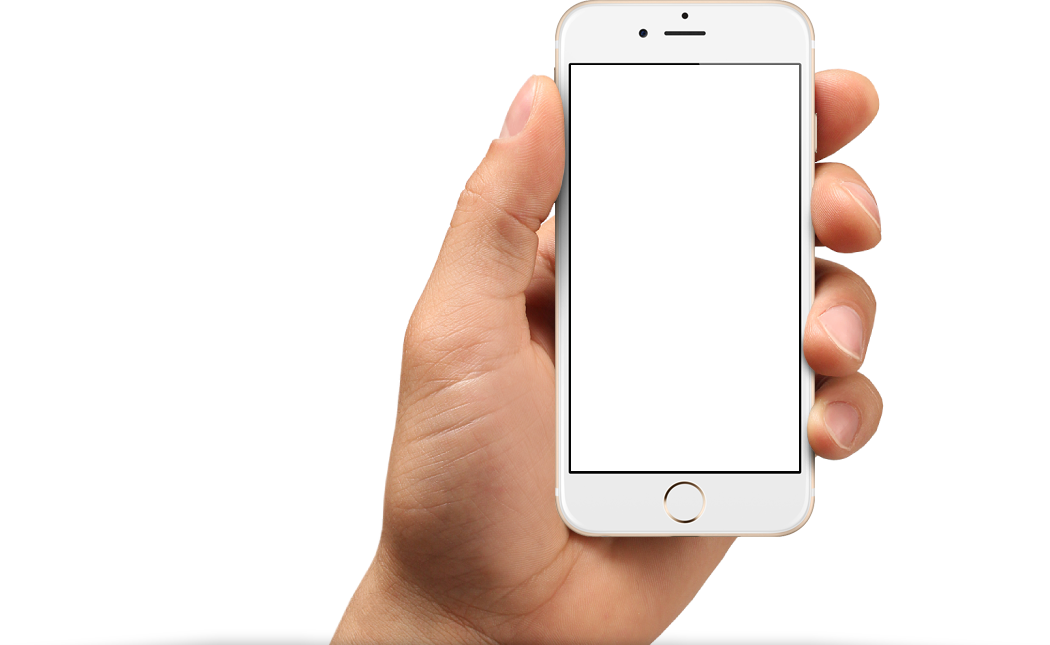
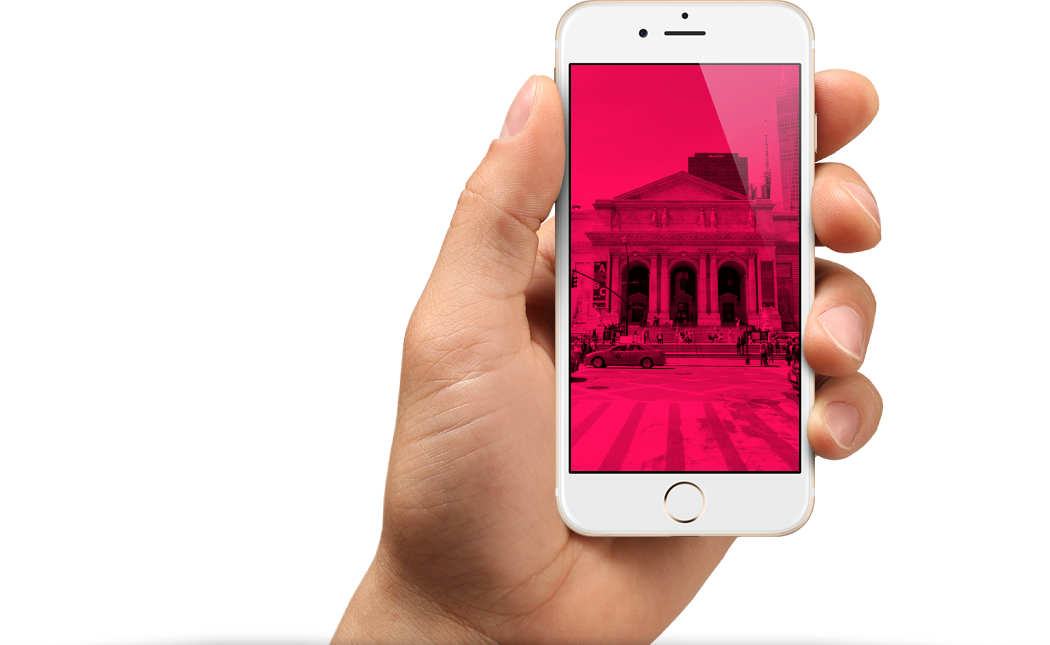
Декоративные элементы главной страницы. Исправления 3.

Changed region(s): [[0.5181, 0.093, 0.7619, 0.7442]]

diff --git a/source/index.html b/source/index.html
@@ -5,12 +5,13 @@
   <meta charset="utf-8">
   <title>HTML Academy: Пинк</title>
   <link rel="stylesheet" href="css/style.css">
+  <script src="js/script.js"></script>
   <meta name="viewport" content="width=device-width, initial-scale=1.0">
 </head>
 
-<body class="page__body">
+<body class="page__body page__leveler">
   <header class="page-header page__leveler">
-    <nav class="main-nav main-nav--closed main-nav--nojs">
+    <nav class="main-nav main-nav--closed">
       <a class="page-header__logo">
         <svg width="74" height="23" viewBox="0 0 74 23" fill="none" xmlns="http://www.w3.org/2000/svg"><path d="M0.00496827 1.54857C0.00487772 1.21254 0.135804 0.889818 0.369742 0.649431C0.60368 0.409043 0.922049 0.27008 1.25676 0.262266H8.39001C13.4469 0.262266 16.7751 2.9645 16.7751 7.39179V7.45162C16.7751 12.2977 12.7415 14.8105 7.97274 14.8105H2.53836V21.611C2.55394 21.7874 2.53277 21.9651 2.47619 22.1329C2.41961 22.3006 2.32887 22.4547 2.20973 22.5854C2.09058 22.716 1.94565 22.8204 1.78416 22.8918C1.62266 22.9631 1.44812 23 1.27166 23C1.0952 23 0.920671 22.9631 0.759173 22.8918C0.597674 22.8204 0.452744 22.716 0.333602 22.5854C0.21446 22.4547 0.123708 22.3006 0.0671295 22.1329C0.0105515 21.9651 -0.0106138 21.7874 0.00496827 21.611V1.54857ZM8.07209 12.5171C11.7778 12.5171 14.2119 10.5228 14.2119 7.53139V7.47156C14.2119 4.26078 11.8175 2.59556 8.25092 2.59556H2.58804V12.4772L8.07209 12.5171Z" fill="white"/><path d="M21.5935 1.38904C21.5779 1.21262 21.5991 1.03487 21.6556 0.867114C21.7122 0.699353 21.803 0.545245 21.9221 0.414596C22.0412 0.283947 22.1862 0.179616 22.3477 0.108238C22.5092 0.0368607 22.6837 0 22.8602 0C23.0366 0 23.2112 0.0368607 23.3727 0.108238C23.5342 0.179616 23.6791 0.283947 23.7982 0.414596C23.9174 0.545245 24.0081 0.699353 24.0647 0.867114C24.1213 1.03487 24.1425 1.21262 24.1269 1.38904V21.611C24.1425 21.7874 24.1213 21.9651 24.0647 22.1329C24.0081 22.3006 23.9174 22.4548 23.7982 22.5854C23.6791 22.7161 23.5342 22.8204 23.3727 22.8918C23.2112 22.9631 23.0366 23 22.8602 23C22.6837 23 22.5092 22.9631 22.3477 22.8918C22.1862 22.8204 22.0412 22.7161 21.9221 22.5854C21.803 22.4548 21.7122 22.3006 21.6556 22.1329C21.5991 21.9651 21.5779 21.7874 21.5935 21.611V1.38904Z" fill="white"/><path d="M30.674 1.41895C30.6816 1.08908 30.8163 0.775007 31.0497 0.542621C31.2831 0.310235 31.597 0.177597 31.9258 0.172531H32.2735C32.5316 0.177833 32.7843 0.248188 33.0082 0.377127C33.2322 0.506065 33.4202 0.689448 33.5551 0.910412L47.1559 18.3104V1.35912C47.1559 1.0312 47.2857 0.7167 47.5168 0.484821C47.7478 0.252942 48.0611 0.122673 48.3879 0.122673C48.7146 0.122673 49.0279 0.252942 49.259 0.484821C49.49 0.7167 49.6198 1.0312 49.6198 1.35912V21.6508C49.6252 21.8051 49.5993 21.9589 49.5435 22.1028C49.4878 22.2467 49.4034 22.3777 49.2956 22.4878C49.1877 22.5979 49.0587 22.6848 48.9163 22.7432C48.7739 22.8016 48.6211 22.8303 48.4673 22.8275H48.3382C48.0744 22.8092 47.8184 22.7294 47.5908 22.5944C47.3631 22.4593 47.17 22.2728 47.0268 22.0497L33.1179 4.24085V21.6508C33.1158 21.9722 32.991 22.2805 32.7692 22.5124C32.5474 22.7442 32.2456 22.882 31.9258 22.8973C31.6008 22.892 31.291 22.7581 31.064 22.5246C30.8369 22.2911 30.711 21.9771 30.7137 21.6508V1.41895H30.674Z" fill="white"/><path d="M55.9384 1.38904C55.9228 1.21262 55.944 1.03487 56.0005 0.867114C56.0571 0.699353 56.1479 0.545245 56.267 0.414596C56.3862 0.283947 56.5311 0.179616 56.6926 0.108238C56.8541 0.0368607 57.0286 0 57.2051 0C57.3815 0 57.5561 0.0368607 57.7176 0.108238C57.8791 0.179616 58.024 0.283947 58.1431 0.414596C58.2623 0.545245 58.353 0.699353 58.4096 0.867114C58.4662 1.03487 58.4874 1.21262 58.4718 1.38904V13.6837L71.2282 0.551443C71.4899 0.279712 71.8455 0.119105 72.2216 0.10273C72.5468 0.115453 72.8548 0.252812 73.0821 0.486531C73.3094 0.72025 73.4388 1.03254 73.4436 1.35912C73.4366 1.52896 73.3961 1.69572 73.3245 1.84975C73.2529 2.00379 73.1516 2.14205 73.0264 2.25655L65.0785 10.1539L73.6523 20.6836C73.8764 20.9441 73.9998 21.2768 74 21.6209C73.9961 21.7933 73.9583 21.9633 73.8887 22.121C73.8191 22.2786 73.719 22.4209 73.5943 22.5395C73.4696 22.6582 73.3228 22.7509 73.1622 22.8123C73.0016 22.8737 72.8305 22.9026 72.6588 22.8973C72.4588 22.8891 72.2639 22.8322 72.0908 22.7314C71.9177 22.6306 71.7716 22.4891 71.6653 22.3189L63.3001 11.859L58.4718 16.7051V21.591C58.4718 21.7573 58.4391 21.922 58.3757 22.0756C58.3123 22.2293 58.2194 22.3689 58.1022 22.4865C57.9851 22.6041 57.846 22.6973 57.6929 22.761C57.5398 22.8246 57.3757 22.8574 57.21 22.8574C57.0443 22.8574 56.8803 22.8246 56.7272 22.761C56.5741 22.6973 56.435 22.6041 56.3179 22.4865C56.2007 22.3689 56.1078 22.2293 56.0443 22.0756C55.9809 21.922 55.9483 21.7573 55.9483 21.591V1.38904H55.9384Z" fill="white"/></svg>
       </a>
@@ -41,23 +42,6 @@
       </div>
     </nav>
   </header>
-
-  <script>
-    var navMain = document.querySelector('.main-nav');
-    var navToggle = document.querySelector('.main-nav__toggle');
-
-    navMain.classList.remove('main-nav--nojs');
-
-    navToggle.addEventListener('click', function() {
-      if (navMain.classList.contains('main-nav--closed')) {
-        navMain.classList.remove('main-nav--closed');
-        navMain.classList.add('main-nav--opened');
-      } else {
-        navMain.classList.add('main-nav--closed');
-        navMain.classList.remove('main-nav--opened');
-      }
-    });
-  </script>
 
   <main class="page-main">
     <h1 class="page__hidden">Pink-Взгляните на жизнь иначе!</h1>

diff --git a/source/sass/blocks/intro.scss b/source/sass/blocks/intro.scss
@@ -2,20 +2,21 @@
   order: 1;
   color: $basic-white;
   background-repeat: no-repeat;
-  background-image: url("../../img/mobile/back-mobile.jpg");
-  background-position: 50% -70px;
+  background-image: url("../../img/mobile/phone-mobile.png"), url("../../img/mobile/back-mobile.jpg");
+  background-position: 50% 106px, 50% -70px;
   background-color: $basic-blue;
   margin-bottom: 46px;
   position: relative;
 
   @media (min-width: $tablet-width) {
-    background-image: url("../../img/tablet/back-tablet.jpg");
-    background-position: 50% -105px;
+    background-image: url("../../img/tablet/phone-tablet.png"), url("../../img/tablet/back-tablet.jpg");
+    background-position: 50% 106px, 50% -105px;
     padding: 74px 0 37px 0;
   }
 
   @media (min-width: $desktop-width) {
-    background-image: url("../../img/desktop/back-desktop.jpg");
+    background-image: url("../../img/desktop/phone-desktop.png"), url("../../img/desktop/back-desktop.jpg");
+    background-position: 110% 106px, 50% -105px;
     padding: 74px 0 80px 0;
   }
 }
@@ -53,10 +54,10 @@
     margin: 53px 0 0 95px;
   }
 }
-
+/*
 .intro__header::after {
   content: " ";
-  background-image: url("../../img/phone.png");
+  background-image: url("../../img/mobile/phone-mobile.png");
   position: absolute;
   top: 105px;
   right: 1px;
@@ -79,7 +80,7 @@
     background-image: url("../../img/desktop/phone-desktop.png");
   }
 }
-
+*/
 .intro-link {
   color: $basic-white;
   text-decoration: none;

diff --git a/source/sass/blocks/main-nav.scss b/source/sass/blocks/main-nav.scss
@@ -28,25 +28,26 @@
     display: flex;
     flex-wrap: wrap;
     padding-top: 48px;
-    padding-left: 170px;
     justify-content: space-around;
   }
 }
 
 .main-nav__wrapper {
   background-color: $basic-black;
+  position: absolute;
+  z-index: 1;
 
   @media (min-width: $desktop-width) {
     display: flex;
     width: 900px;
-    margin: 0;
+    margin-left: 300px;
   }
 }
 
 .main-nav__toggle {
   position: absolute;
   top: 0;
-  right: 0;
+  left: 260px;
   z-index: 2;
   display: block;
   width: 60px;
@@ -54,6 +55,10 @@
   cursor: pointer;
   border: none;
   background-color: $special-blue;
+
+  @media (min-width: $tablet-width) {
+    left: 592px;
+  }
 
   @media (min-width: $desktop-width) {
     display: none;
@@ -92,6 +97,7 @@
 
 .main-nav--opened {
   background-color: $special-blue;
+  width: 100%;
 
   @media (min-width: $desktop-width) {
     background-color: $basic-black;

diff --git a/source/js/script.js b/source/js/script.js
@@ -1,0 +1,16 @@
+<script>
+var navMain = document.querySelector('.main-nav');
+var navToggle = document.querySelector('.main-nav__toggle');
+
+navMain.classList.remove('main-nav--nojs');
+
+navToggle.addEventListener('click', function() {
+  if (navMain.classList.contains('main-nav--closed')) {
+    navMain.classList.remove('main-nav--closed');
+    navMain.classList.add('main-nav--opened');
+  } else {
+    navMain.classList.add('main-nav--closed');
+    navMain.classList.remove('main-nav--opened');
+  }
+});
+</script>

diff --git a/source/sass/blocks/page-header.scss b/source/sass/blocks/page-header.scss
@@ -4,12 +4,8 @@
   display: flex;
   justify-content: space-between;
 
-  @media (min-width: $tablet-width) {
-    height: 110px;
-  }
-
   @media (min-width: $desktop-width) {
-    height: 110px;
+    padding-bottom: 55px;
   }
 }
 

diff --git a/source/sass/blocks/page__body.scss b/source/sass/blocks/page__body.scss
@@ -1,3 +1,5 @@
 .page__body {
-  margin: 0;
+  min-height: 100vh;
+  display: grid;
+  grid-template-columns: min-content;
 }
